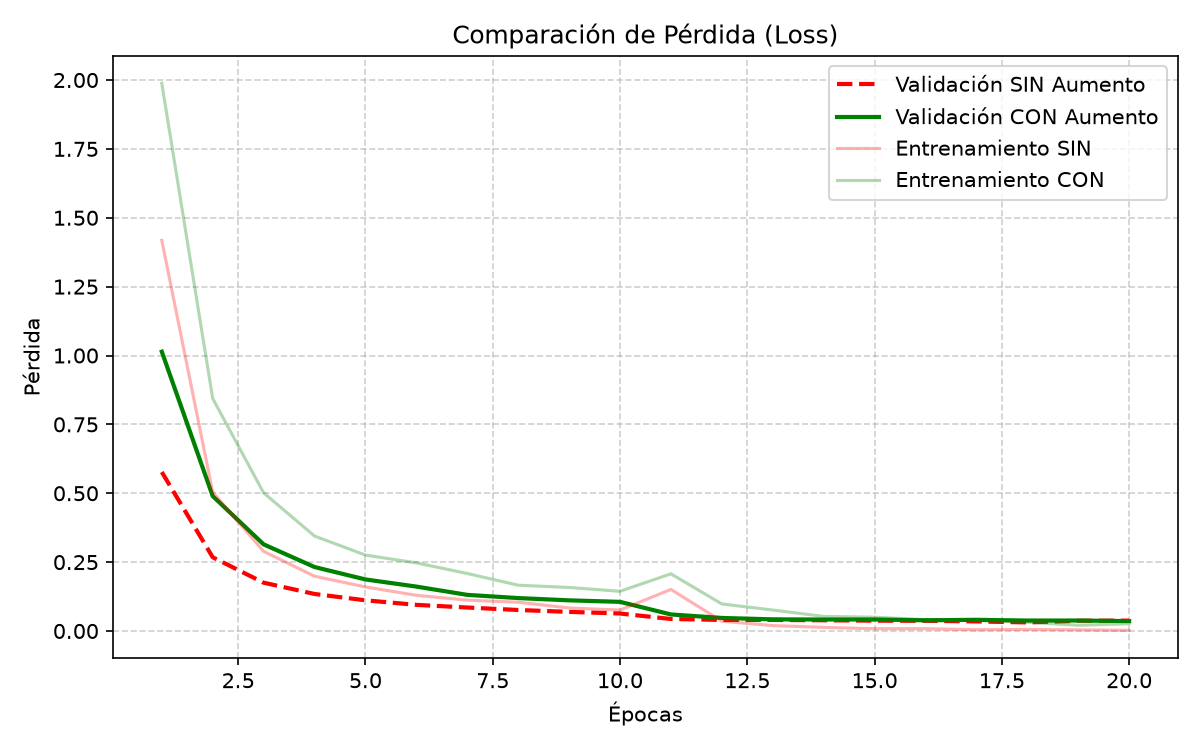
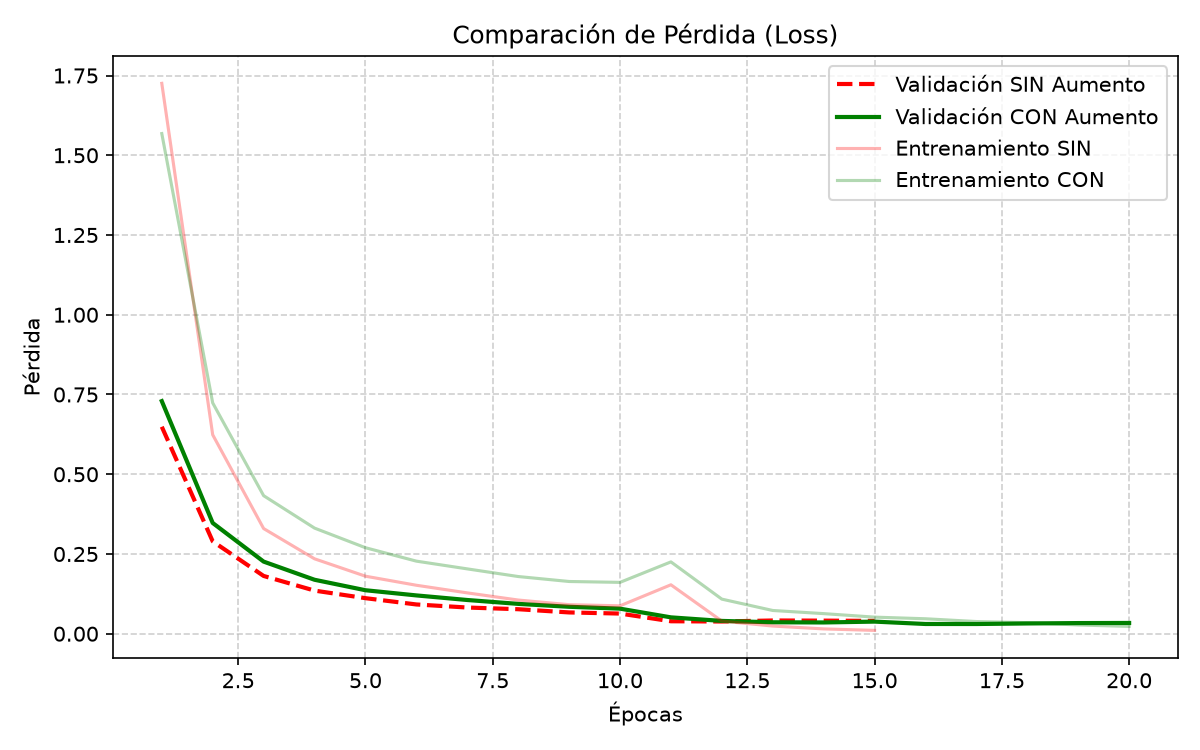
clases desbalanceadas

diff --git a/Caracoles.py b/Caracoles.py
@@ -1,18 +1,22 @@
-# %% [markdown]
-# # Clasificación de familias de caracoles con Transfer Learning
-#
-# Clasificación de imágenes de caracoles en **6 familias** usando **ResNet50**
-# preentrenado en ImageNet.
-#
-# **Flujo:**
-# 1. Carga y exploración del dataset
-# 2. Extracción de características (base congelada): dos modelos, SIN y CON
-#    *data augmentation*
-# 3. *Fine-tuning* de las últimas capas de ResNet50 en ambos modelos
-# 4. Resultados: 4 gráficas individuales (loss y accuracy de cada modelo),
-#    2 matrices de confusión y 2 gráficas comparativas (loss y accuracy)
+# -*- coding: utf-8 -*-
+"""Caracoles.ipynb
 
-# %%
+Automatically generated by Colab.
+
+Original file is located at
+    https://colab.research.google.com/drive/1wEoYZRHXwuDhK5TEEv85Iz8IKcXPKhr9
+
+# Clasificación de familias de caracoles con Transfer Learning
+
+Clasificación de imágenes de caracoles en **6 familias** usando **ResNet50** preentrenado en ImageNet.
+
+**Flujo del notebook:**
+1. Carga y exploración del dataset
+2. Extracción de características (base congelada): dos modelos, SIN y CON *data augmentation*
+3. *Fine-tuning* de las últimas capas de ResNet50 en ambos modelos
+4. Resultados: 4 gráficas individuales (loss y accuracy por modelo), 2 matrices de confusión y 2 gráficas comparativas
+"""
+
 import matplotlib.pyplot as plt
 import numpy as np
 import os
@@ -26,91 +30,122 @@ for gpu in gpus:
     tf.config.experimental.set_memory_growth(gpu, True)
 print(f"GPUs detectadas: {len(gpus)}" if gpus else "Sin GPU: se entrenara en CPU")
 
-# %% [markdown]
-# ## 1. Carga del dataset
+"""## 1. Carga del dataset"""
 
-# %%
 import zipfile
+import os
 
-# CARACOLES.zip debe estar en el mismo directorio que este script
-if not os.path.isdir('mis_imagenes/CARACOLES'):
-    with zipfile.ZipFile('CARACOLES.zip') as z:
-        z.extractall('mis_imagenes')
+# Configura el nombre de tu archivo zip y la carpeta de destino
+archivo_zip = 'CARACOLES.zip'
+carpeta_destino = 'mis_imagenes'
 
-# %%
+# Verificar si el archivo ZIP existe antes de descomprimir
+if os.path.exists(archivo_zip):
+    print(f"Descomprimiendo {archivo_zip} en '{carpeta_destino}'...")
+    try:
+        with zipfile.ZipFile(archivo_zip, 'r') as zip_ref:
+            zip_ref.extractall(carpeta_destino)
+        print("¡Descompresión completada con éxito!")
+    except zipfile.BadZipFile:
+        print("Error: El archivo ZIP está dañado o no es un formato válido.")
+else:
+    print(f"Error: No se encontró el archivo '{archivo_zip}' en el directorio actual.")
+
+
 clases = sorted(os.listdir('mis_imagenes/CARACOLES'))
 print(f"{len(clases)} clases encontradas: {clases}")
 
-# %% [markdown]
-# El zip contiene la estructura `CARACOLES/<familia>/*.png`, así que el
-# directorio de datos debe ser `mis_imagenes/CARACOLES` para que cada
-# subcarpeta (familia) sea una clase distinta.
-
-# %%
 directorio_datos = 'mis_imagenes/CARACOLES'
 
 BATCH_SIZE = 32
 IMG_SIZE = (160, 160)
 
-# %% [markdown]
-# ### Dataset de entrenamiento
+"""### Dataset de entrenamiento"""
 
-# %%
 train_dataset = tf.keras.utils.image_dataset_from_directory(
-    directorio_datos,
-    validation_split=0.2,
-    subset="training",
-    seed=123,
-    image_size=IMG_SIZE,
-    batch_size=BATCH_SIZE)
+  directorio_datos,
+  validation_split=0.2,
+  subset="training",
+  seed=123,
+  image_size=IMG_SIZE,
+  batch_size=BATCH_SIZE)
 
-# %% [markdown]
-# ### Dataset de validación
+"""### Dataset de validación"""
 
-# %%
 validation_dataset = tf.keras.utils.image_dataset_from_directory(
-    directorio_datos,
-    validation_split=0.2,
-    subset="validation",
-    seed=123,
-    image_size=IMG_SIZE,
-    batch_size=BATCH_SIZE)
+  directorio_datos,
+  validation_split=0.2,
+  subset="validation",
+  seed=123,
+  image_size=IMG_SIZE,
+  batch_size=BATCH_SIZE)
 
 class_names = train_dataset.class_names
 num_classes = len(class_names)
 print(f"Clases de caracoles encontradas ({num_classes}): {class_names}")
 
-for clase in class_names:
-    n = len(os.listdir(os.path.join(directorio_datos, clase)))
+conteos_clases = {clase: len(os.listdir(os.path.join(directorio_datos, clase)))
+                  for clase in class_names}
+for clase, n in conteos_clases.items():
     print(f"  {clase}: {n} imágenes")
 
-# %% [markdown]
-# **Optimizar la carga de datos**
+"""### Distribución de imágenes por clase
 
-# %%
+La clase minoritaria es **Risooinidae**: tiene ~4,5 veces menos imágenes que la mayoritaria (Neritidae), así que el dataset está desbalanceado.
+"""
+
+fig, ax = plt.subplots(figsize=(9, 5))
+barras = ax.bar(conteos_clases.keys(), conteos_clases.values(),
+                color='steelblue', edgecolor='black')
+media = sum(conteos_clases.values()) / len(conteos_clases)
+ax.axhline(media, color='red', linestyle='--', label=f'Media = {media:.0f}')
+for barra, v in zip(barras, conteos_clases.values()):
+    ax.text(barra.get_x() + barra.get_width() / 2, v, str(v),
+            ha='center', va='bottom')
+ax.set_title('Distribución de imágenes por clase (dataset completo)')
+ax.set_xlabel('Familia')
+ax.set_ylabel('Número de imágenes')
+ax.legend()
+plt.setp(ax.get_xticklabels(), rotation=30, ha='right')
+plt.tight_layout()
+plt.savefig('distribucion_clases.png', dpi=150)
+plt.show()
+
+"""**Optimizar la carga de datos**"""
+
 AUTOTUNE = tf.data.AUTOTUNE
 train_dataset = train_dataset.prefetch(buffer_size=AUTOTUNE)
 validation_dataset = validation_dataset.prefetch(buffer_size=AUTOTUNE)
 
-# %% [markdown]
-# ## 2. Aumento de datos y modelo base
+"""### Pesos de clase para compensar el desbalance
 
-# %%
+`class_weight` multiplica la pérdida de cada muestra según su clase, de modo que los errores en clases minoritarias penalizan más. Se calcula **solo con las etiquetas de entrenamiento** (después del split) para no usar información del conjunto de validación.
+"""
+
+train_labels = np.concatenate([y.numpy() for _, y in train_dataset])
+conteos_train = np.bincount(train_labels, minlength=num_classes)
+class_weights = {
+    i: len(train_labels) / (num_classes * int(n))
+    for i, n in enumerate(conteos_train)
+}
+
+for i, nombre in enumerate(class_names):
+    print(f"  {nombre}: {conteos_train[i]} imágenes en train → peso {class_weights[i]:.3f}")
+
+"""## 2. Aumento de datos y modelo base"""
+
 data_augmentation = tf.keras.Sequential([
-    tf.keras.layers.RandomFlip('horizontal'),
-    tf.keras.layers.RandomRotation(0.2),
-    tf.keras.layers.RandomZoom(0.1),
-    tf.keras.layers.RandomContrast(0.1),
+  tf.keras.layers.RandomFlip('horizontal'),
+  tf.keras.layers.RandomRotation(0.2),
+  tf.keras.layers.RandomZoom(0.1),
+  tf.keras.layers.RandomContrast(0.1),
 ])
 
-# %% [markdown]
-# **Preprocesamiento y modelo base**
-#
-# Cada modelo recibe su **propia instancia de ResNet50**: si compartieran la
-# misma base, el fine-tuning de uno modificaría los pesos del otro y la
-# comparación sería inválida.
+"""**Preprocesamiento y modelo base**
 
-# %%
+Cada modelo recibe su **propia instancia de ResNet50**: si compartieran la misma base, el fine-tuning de uno modificaría los pesos del otro y la comparación sería inválida.
+"""
+
 preprocess_input = tf.keras.applications.resnet50.preprocess_input
 
 IMG_SHAPE = IMG_SIZE + (3,)
@@ -155,43 +190,37 @@ def aplicar_fine_tuning(model, base_model, ultimas_capas=40):
                   metrics=['accuracy'])
     print(f"Pesos entrenables: {len(model.trainable_weights)}")
 
-# %% [markdown]
-# ## 3. Extracción de características
-#
-# ### Modelo SIN data augmentation
+"""## 3. Extracción de características
 
-# %%
+### Modelo SIN data augmentation
+"""
+
 initial_epochs = 10
 
 print("--- Entrenando Modelo SIN Data Augmentation ---")
 model_sin_aug, base_sin = construir_modelo(usar_augmentation=False)
 history_sin = model_sin_aug.fit(train_dataset,
-                                epochs=initial_epochs,
-                                validation_data=validation_dataset,
-                                callbacks=crear_callbacks())
+                              epochs=initial_epochs,
+                              validation_data=validation_dataset,
+                              class_weight=class_weights,
+                              callbacks=crear_callbacks())
 
-# %% [markdown]
-# ### Modelo CON data augmentation
+"""### Modelo CON data augmentation"""
 
-# %%
 print("\n--- Entrenando Modelo CON Data Augmentation ---")
 model_con_aug, base_con = construir_modelo(usar_augmentation=True)
 history_con = model_con_aug.fit(train_dataset,
-                                epochs=initial_epochs,
-                                validation_data=validation_dataset,
-                                callbacks=crear_callbacks())
+                              epochs=initial_epochs,
+                              validation_data=validation_dataset,
+                              class_weight=class_weights,
+                              callbacks=crear_callbacks())
 
-# %% [markdown]
-# ## 4. Fine-tuning
-#
-# Descongelamos las **últimas 40 capas** de ResNet50 en **ambos** modelos y
-# seguimos entrenando con una tasa de aprendizaje 10x menor. Así la
-# comparación SIN vs CON augmentation se hace entre dos modelos con el
-# mismo pipeline completo.
+"""## 4. Fine-tuning
 
-# %%
+Descongelamos las **últimas 40 capas** de ResNet50 en **ambos** modelos y seguimos entrenando con una tasa de aprendizaje 10× menor. Así la comparación SIN vs CON augmentation se hace entre dos modelos con el mismo pipeline completo.
+"""
+
 fine_tune_epochs = 10
-
 ep_sin = len(history_sin.history['loss'])
 aplicar_fine_tuning(model_sin_aug, base_sin)
 print("--- Fine-tuning del modelo SIN Data Augmentation ---")
@@ -199,9 +228,10 @@ history_fine_sin = model_sin_aug.fit(train_dataset,
                                    epochs=ep_sin + fine_tune_epochs,
                                    initial_epoch=ep_sin,
                                    validation_data=validation_dataset,
+                                   class_weight=class_weights,
                                    callbacks=crear_callbacks())
 
-# %%
+fine_tune_epochs = 10
 ep_con = len(history_con.history['loss'])
 aplicar_fine_tuning(model_con_aug, base_con)
 print("--- Fine-tuning del modelo CON Data Augmentation ---")
@@ -209,14 +239,14 @@ history_fine_con = model_con_aug.fit(train_dataset,
                                    epochs=ep_con + fine_tune_epochs,
                                    initial_epoch=ep_con,
                                    validation_data=validation_dataset,
+                                   class_weight=class_weights,
                                    callbacks=crear_callbacks())
 
-# %% [markdown]
-# ## 5. Resultados
-#
-# ### Gráficas individuales (train + validación de cada modelo)
+"""## 5. Resultados
 
-# %%
+### Gráficas individuales (train + validación de cada modelo)
+"""
+
 # Historiales completos: extracción de características + fine-tuning
 acc_sin = history_sin.history['accuracy'] + history_fine_sin.history['accuracy']
 val_acc_sin = history_sin.history['val_accuracy'] + history_fine_sin.history['val_accuracy']
@@ -260,10 +290,8 @@ graficar_entrenamiento(acc_con, val_acc_con, 'accuracy',
                        'Precisión — modelo CON data augmentation',
                        'accuracy_con_aug.png', ep_con)
 
-# %% [markdown]
-# ### Matrices de confusión
+"""### Matrices de confusión"""
 
-# %%
 def evaluar_modelo(model, nombre, archivo):
     y_true, y_pred = [], []
     for images, labels in validation_dataset:
@@ -289,10 +317,8 @@ def evaluar_modelo(model, nombre, archivo):
 evaluar_modelo(model_sin_aug, 'SIN data augmentation', 'matriz_sin_aug.png')
 evaluar_modelo(model_con_aug, 'CON data augmentation', 'matriz_con_aug.png')
 
-# %% [markdown]
-# ### Comparación conjunta (ambos modelos en la misma gráfica)
+"""### Comparación conjunta (ambos modelos en la misma gráfica)"""
 
-# %%
 epocas_sin = range(1, len(loss_sin) + 1)
 epocas_con = range(1, len(loss_con) + 1)
 
@@ -310,7 +336,6 @@ plt.tight_layout()
 plt.savefig('comparacion_loss.png', dpi=150)
 plt.show()
 
-# %%
 plt.figure(figsize=(8, 5))
 plt.plot(epocas_sin, val_acc_sin, 'r--', linewidth=2, label='Validación SIN Aumento')
 plt.plot(epocas_con, val_acc_con, 'g-', linewidth=2, label='Validación CON Aumento')
@@ -325,10 +350,8 @@ plt.tight_layout()
 plt.savefig('comparacion_accuracy.png', dpi=150)
 plt.show()
 
-# %% [markdown]
-# ### Ejemplos de predicción (modelo CON data augmentation)
+"""### Ejemplos de predicción (modelo CON data augmentation)"""
 
-# %%
 plt.figure(figsize=(12, 12))
 for images, labels in validation_dataset.take(1):
     preds = np.argmax(model_con_aug.predict(images, verbose=0), axis=1)
@@ -343,6 +366,13 @@ plt.tight_layout()
 plt.savefig('predicciones_ejemplo.png', dpi=150)
 plt.show()
 
-# %%
 model_con_aug.save('clasificador_caracoles.keras')
 print("Modelo guardado: clasificador_caracoles.keras")
+
+"""### Posibles mejoras adicionales
+
+- Sobremuestrear la clase minoritaria (Risooinidae) con augmentation si `class_weight` no fuera suficiente
+- Probar otros modelos base: MobileNetV2 (más rápido) o EfficientNetV2B0
+- Aumentar `fine_tune_epochs` o descongelar más capas si el fine-tuning sigue mejorando
+- Validación cruzada (k-fold) dado el tamaño reducido del dataset
+"""
